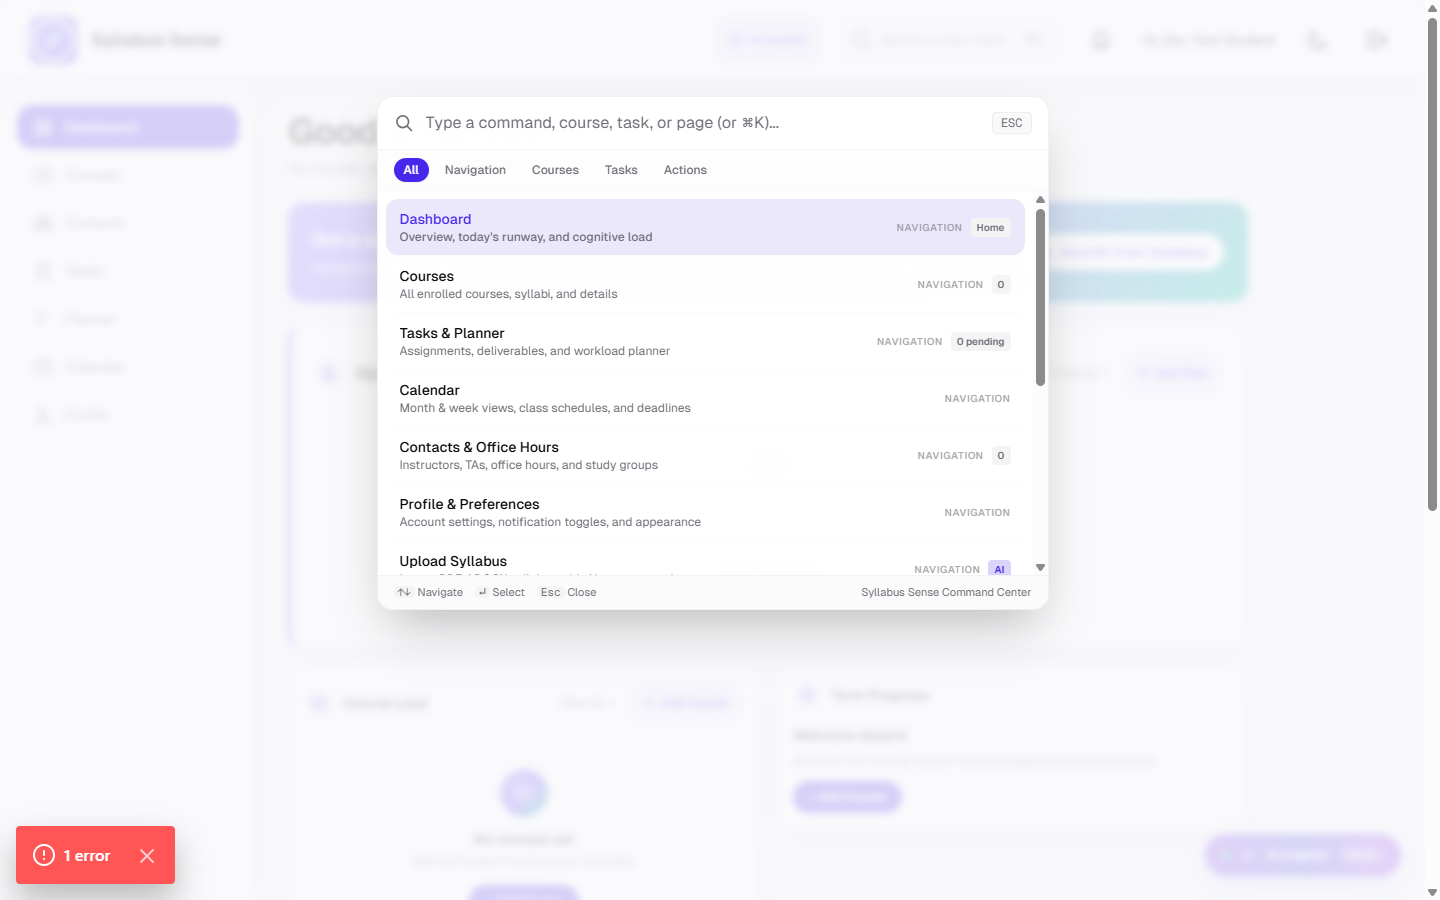
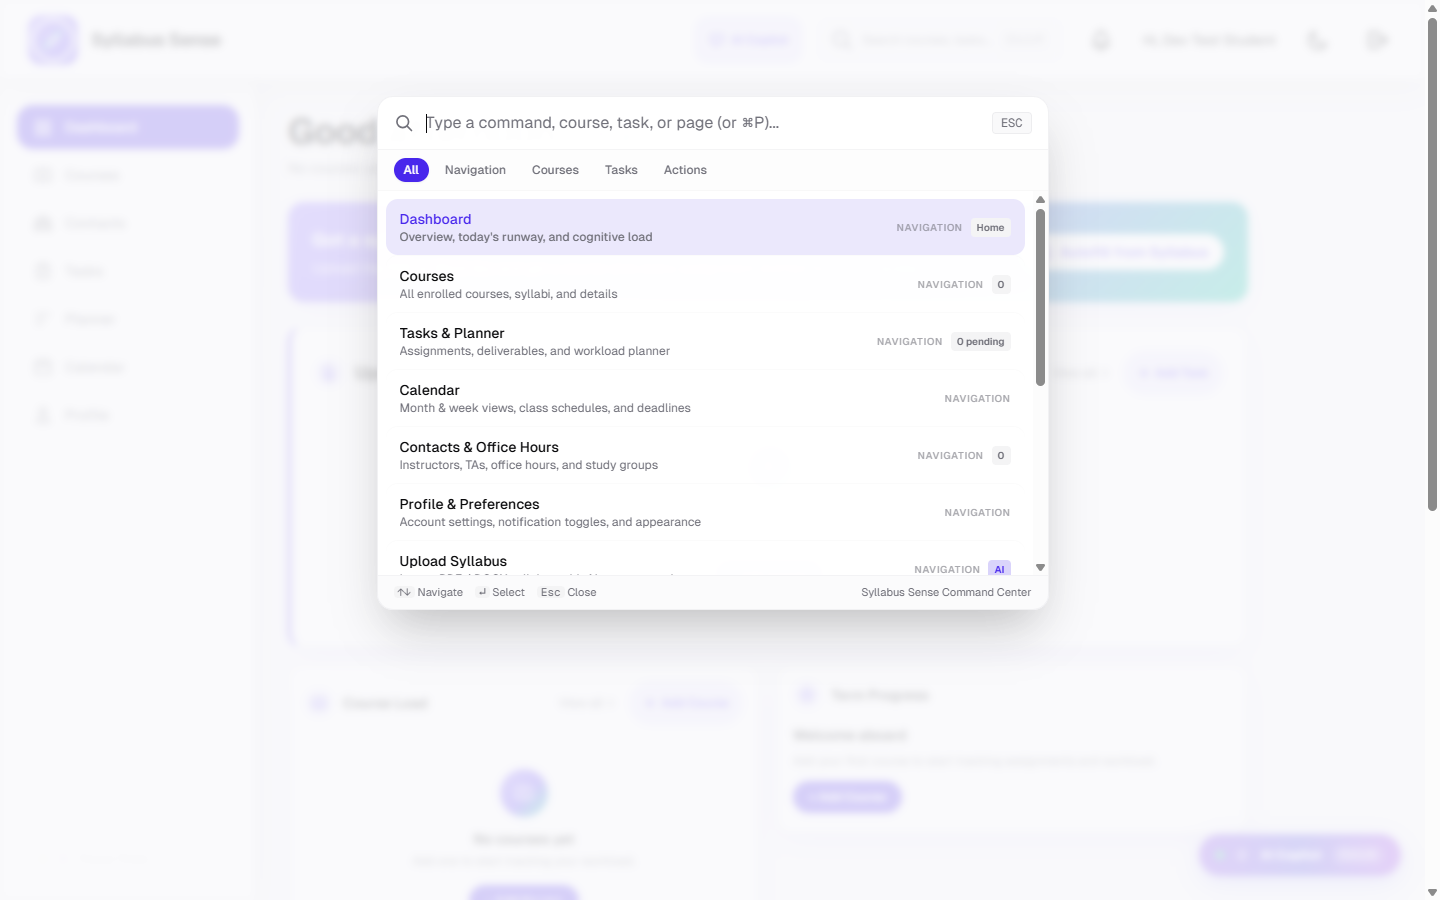
fix(ux): separate Cmd+K (AI Copilot) from Ctrl+P (Command Palette), fix manifest 500 error, add platform-aware shortcut badges, suppress dev error overlay in screenshots

Changed region(s): [[0.0, 0.9022, 0.125, 1.0]]

diff --git a/scripts/inspect_error_overlay.js b/scripts/inspect_error_overlay.js
@@ -1,0 +1,129 @@
+// Quick script: navigate to dashboard, then dump the error toast HTML to identify it
+const net = require('net');
+const path = require('path');
+
+async function getWsUrl() {
+  const res = await fetch('http://localhost:9222/json');
+  const targets = await res.json();
+  const page = targets.find((t) => t.url && t.url.includes('localhost:3000')) || targets[0];
+  if (!page) throw new Error('No Chrome page found');
+  console.log('Found page:', page.url);
+  return page.webSocketDebuggerUrl;
+}
+
+function connectWS(wsUrl) {
+  return new Promise((resolve, reject) => {
+    const u = new URL(wsUrl);
+    const socket = net.connect(parseInt(u.port), u.hostname);
+    const key = Buffer.from(Math.random().toString()).toString('base64');
+    const reqHeaders = [
+      `GET ${u.pathname} HTTP/1.1`,
+      `Host: ${u.host}`,
+      `Upgrade: websocket`,
+      `Connection: Upgrade`,
+      `Sec-WebSocket-Key: ${key}`,
+      `Sec-WebSocket-Version: 13`,
+      '',
+      '',
+    ].join('\r\n');
+    let resolved = false;
+    let msgId = 1;
+    const pending = new Map();
+    const listeners = [];
+    let buf = Buffer.alloc(0);
+    let handshakeDone = false;
+
+    socket.on('data', (chunk) => {
+      buf = Buffer.concat([buf, chunk]);
+      if (!handshakeDone) {
+        const end = buf.indexOf('\r\n\r\n');
+        if (end !== -1) {
+          handshakeDone = true;
+          buf = buf.slice(end + 4);
+          if (!resolved) { resolved = true; resolve({ send, on: addListener }); }
+        }
+        return;
+      }
+      while (buf.length > 2) {
+        const b0 = buf[0], b1 = buf[1];
+        const masked = (b1 & 0x80) !== 0;
+        let payloadLen = b1 & 0x7f;
+        let offset = 2;
+        if (payloadLen === 126) { if (buf.length < 4) return; payloadLen = buf.readUInt16BE(2); offset = 4; }
+        else if (payloadLen === 127) { if (buf.length < 10) return; payloadLen = Number(buf.readBigUInt64BE(2)); offset = 10; }
+        const maskLen = masked ? 4 : 0;
+        if (buf.length < offset + maskLen + payloadLen) return;
+        const mask = masked ? buf.slice(offset, offset + 4) : null;
+        offset += maskLen;
+        let payload = buf.slice(offset, offset + payloadLen);
+        if (masked) { for (let i = 0; i < payload.length; i++) payload[i] ^= mask[i % 4]; }
+        buf = buf.slice(offset + payloadLen);
+        const opcode = b0 & 0xf;
+        if (opcode === 1) {
+          const msg = JSON.parse(payload.toString());
+          if (msg.id && pending.has(msg.id)) { const cb = pending.get(msg.id); pending.delete(msg.id); cb(msg); }
+          listeners.forEach(fn => fn(msg));
+        }
+      }
+    });
+
+    socket.on('error', reject);
+
+    function send(method, params = {}) {
+      return new Promise((res) => {
+        const id = msgId++;
+        pending.set(id, res);
+        const data = JSON.stringify({ id, method, params });
+        const frame = encodeFrame(data);
+        socket.write(frame);
+      });
+    }
+
+    function encodeFrame(data) {
+      const payload = Buffer.from(data, 'utf8');
+      const len = payload.length;
+      const header = len < 126 ? Buffer.from([0x81, len]) :
+        len < 65536 ? Buffer.from([0x81, 126, len >> 8, len & 0xff]) :
+        (() => { const b = Buffer.alloc(10); b[0]=0x81; b[1]=127; b.writeBigUInt64BE(BigInt(len),2); return b; })();
+      return Buffer.concat([header, payload]);
+    }
+
+    function addListener(fn) { listeners.push(fn); }
+  });
+}
+
+async function main() {
+  const wsUrl = await getWsUrl();
+  const { send } = await connectWS(wsUrl);
+
+  await send('Runtime.enable', {});
+  await send('Page.navigate', { url: 'http://localhost:3000/dashboard?mock=true' });
+  await new Promise(r => setTimeout(r, 3000));
+
+  // Inspect what the error toast looks like in the DOM
+  const result = await send('Runtime.evaluate', {
+    expression: `JSON.stringify({
+      fixedEls: Array.from(document.querySelectorAll('[class*="fixed"]')).map(el => ({
+        tag: el.tagName,
+        cls: el.className.slice(0,80),
+        text: el.innerText.slice(0,100)
+      })),
+      nextjsPortal: document.querySelector('nextjs-portal') ? 'FOUND' : 'not found',
+      shadowHTML: (() => {
+        const p = document.querySelector('nextjs-portal');
+        return p && p.shadowRoot ? p.shadowRoot.innerHTML.slice(0, 800) : 'none';
+      })()
+    })`,
+    returnByValue: true
+  });
+
+  const info = JSON.parse(result.result.result.value);
+  console.log('\n=== Fixed elements ===');
+  info.fixedEls.forEach(el => console.log(el));
+  console.log('\n=== nextjs-portal ===', info.nextjsPortal);
+  console.log('\n=== Shadow HTML ===\n', info.shadowHTML);
+
+  process.exit(0);
+}
+
+main().catch(e => { console.error(e); process.exit(1); });

diff --git a/scripts/verify_and_capture_live.js b/scripts/verify_and_capture_live.js
@@ -128,14 +128,32 @@ async function evalScript(socket, expression) {
 async function runCapturePipeline(wsUrl) {
   const socket = await connectWS(wsUrl);
 
+  // Hide the Next.js dev error overlay on every page load (shadow DOM inside <nextjs-portal>)
+  await sendCommand(socket, 'Page.addScriptToEvaluateOnNewDocument', {
+    source: `
+      (function() {
+        const style = document.createElement('style');
+        style.textContent = 'nextjs-portal { display: none !important; }';
+        document.documentElement.appendChild(style);
+        // Also observe for late-injected portals
+        const obs = new MutationObserver(() => {
+          document.querySelectorAll('nextjs-portal').forEach(el => {
+            el.style.setProperty('display', 'none', 'important');
+          });
+        });
+        obs.observe(document.documentElement, { childList: true, subtree: true });
+      })();
+    `
+  });
+
   const itemsToCapture = [
     {
       name: 'item-34-command-palette',
       route: 'http://localhost:3000/dashboard?mock=true&cmd=true',
       trigger: `
-        const btn = document.querySelector('button[aria-label*="Search"]') || Array.from(document.querySelectorAll('button')).find(b => b.innerText.includes('Search') || b.innerText.includes('Cmd+K'));
+        const btn = document.querySelector('button[aria-label*="Search"]') || Array.from(document.querySelectorAll('button')).find(b => b.innerText.includes('Search') || b.innerText.includes('Ctrl+P'));
         if (btn) btn.click();
-        else window.dispatchEvent(new KeyboardEvent('keydown', { key: 'k', metaKey: true, ctrlKey: true }));
+        else window.dispatchEvent(new KeyboardEvent('keydown', { key: 'p', metaKey: true, ctrlKey: true, bubbles: true }));
       `,
       verifier: `!!document.querySelector('[role="dialog"]') || document.body.innerText.includes("Command Palette") || document.body.innerText.includes("Search tasks")`
     },
@@ -224,7 +242,10 @@ async function runCapturePipeline(wsUrl) {
   for (const item of itemsToCapture) {
     console.log(`\n📸 Capturing ${item.name} at ${item.route}`);
     await sendCommand(socket, 'Page.navigate', { url: item.route });
-    await new Promise((r) => setTimeout(r, 1500));
+    await new Promise((r) => setTimeout(r, 1200));
+    // Hard reload bypasses cache so stale dev-error overlays are gone
+    await sendCommand(socket, 'Page.reload', { ignoreCache: true });
+    await new Promise((r) => setTimeout(r, 1800));
 
     // Set mock_auth in localStorage
     await evalScript(socket, `localStorage.setItem('mock_auth', 'true')`);
@@ -234,6 +255,27 @@ async function runCapturePipeline(wsUrl) {
       await evalScript(socket, item.trigger);
       await new Promise((r) => setTimeout(r, 1200));
     }
+
+    // Dismiss any Next.js dev error overlay or red toast before capturing
+    await evalScript(socket, `
+      // Close Next.js built-in error overlay (dev mode)
+      try {
+        const overlay = document.querySelector('nextjs-portal');
+        if (overlay) overlay.remove();
+      } catch(e) {}
+      // Close any visible error toast buttons (e.g. "1 error ×")
+      document.querySelectorAll('button').forEach(btn => {
+        if (btn.innerText.includes('error') || btn.getAttribute('aria-label') === 'Close') {
+          const parent = btn.closest('[class*="fixed"], [class*="toast"], [class*="error"]');
+          if (parent) parent.remove();
+          else if (btn.innerText.trim() === '×' || btn.innerText.trim() === 'X') btn.click();
+        }
+      });
+      // Also hide shadow-dom error overlay if present
+      const devOverlay = document.getElementById('__next-build-watcher');
+      if (devOverlay) devOverlay.style.display = 'none';
+    `);
+    await new Promise((r) => setTimeout(r, 300));
 
     const verified = item.verifier ? await evalScript(socket, item.verifier) : true;
     console.log(`  Modal/Feature Verified Active (${item.name}):`, verified);

diff --git a/src/components/layout/Navbar.tsx b/src/components/layout/Navbar.tsx
@@ -10,6 +10,7 @@ import type { ScheduleItem } from '@/types/schedule';
 import Logo from './Logo';
 import { TermSwitcher } from './TermSwitcher';
 import { CommandPalette } from '@/components/common/CommandPalette';
+import { usePlatformKey } from '@/hooks/usePlatformKey';
 
 /** NV-3: how far ahead of "now" a pending item counts as "due soon" in the
  * notification bell's dropdown (as opposed to "overdue"). Purely a display
@@ -194,6 +195,7 @@ export default function Navbar({ onOpenChat }: { onOpenChat?: () => void }) {
   const [mounted, setMounted] = useState(false);
   const [openPanel, setOpenPanel] = useState<'search' | 'bell' | null>(null);
   const [isCommandPaletteOpen, setIsCommandPaletteOpen] = useState(false);
+  const modKey = usePlatformKey();
 
   const handleSignOut = async () => {
     const success = await signOut();
@@ -239,7 +241,7 @@ export default function Navbar({ onOpenChat }: { onOpenChat?: () => void }) {
           <>
             <button
               onClick={() => setIsCommandPaletteOpen(true)}
-              aria-label="Open command palette (Cmd+K)"
+              aria-label={`Open command palette (${modKey}+P)`}
               className="hidden md:inline-flex items-center gap-2 rounded-xl border border-border/50 bg-background/60 px-3 py-2 text-xs text-muted-foreground hover:border-primary/50 hover:text-foreground transition-all focus:outline-none focus:ring-2 focus:ring-primary min-h-[44px]"
             >
               <SearchIcon />
@@ -247,12 +249,12 @@ export default function Navbar({ onOpenChat }: { onOpenChat?: () => void }) {
                 Search courses, tasks...
               </span>
               <kbd className="rounded border border-border/70 bg-muted/60 px-1.5 py-0.5 text-[10px] font-mono">
-                ⌘K
+                {modKey}+P
               </kbd>
             </button>
             <button
               onClick={() => setIsCommandPaletteOpen(true)}
-              aria-label="Search courses and tasks (Cmd+K)"
+              aria-label={`Search courses and tasks (${modKey}+P)`}
               className="md:hidden inline-flex min-h-[44px] min-w-[44px] items-center justify-center rounded-md p-2 text-foreground hover:bg-accent focus:outline-none focus:ring-2 focus:ring-primary focus:ring-offset-2 focus:ring-offset-background"
             >
               <SearchIcon />

diff --git a/src/components/layout/LayoutWrapper.tsx b/src/components/layout/LayoutWrapper.tsx
@@ -11,15 +11,29 @@ import FirestoreSync from './FirestoreSync';
 import OfflineBanner from './OfflineBanner';
 import { SyllabusChatDrawer } from '@/components/syllabus/SyllabusChatDrawer';
 import { PomodoroTimer } from '@/components/focus/PomodoroTimer';
+import { usePlatformKey } from '@/hooks/usePlatformKey';
 
 export default function LayoutWrapper({ children }: { children: React.ReactNode }) {
   const [isChatOpen, setIsChatOpen] = useState(false);
+  const modKey = usePlatformKey();
 
   useEffect(() => {
     // URL flag to open chat drawer directly for screenshot capture / deep linking
     if (typeof window !== 'undefined' && window.location.search.includes('chat=true')) {
       setIsChatOpen(true);
     }
+  }, []);
+
+  // Global Cmd+K / Ctrl+K → open AI Copilot chat
+  useEffect(() => {
+    const handleKeyDown = (e: KeyboardEvent) => {
+      if ((e.metaKey || e.ctrlKey) && e.key.toLowerCase() === 'k') {
+        e.preventDefault();
+        setIsChatOpen((prev) => !prev);
+      }
+    };
+    window.addEventListener('keydown', handleKeyDown);
+    return () => window.removeEventListener('keydown', handleKeyDown);
   }, []);
 
   return (
@@ -52,7 +66,7 @@ export default function LayoutWrapper({ children }: { children: React.ReactNode 
                 <path strokeLinecap="round" strokeLinejoin="round" d="M13 10V3L4 14h7v7l9-11h-7z" />
               </svg>
               <span className="font-bold tracking-wide">AI Copilot</span>
-              <span className="hidden rounded-full bg-white/20 px-2 py-0.5 text-[10px] font-mono text-white/90 sm:inline-block">Cmd+K</span>
+              <span className="hidden rounded-full bg-white/20 px-2 py-0.5 text-[10px] font-mono text-white/90 sm:inline-block">{modKey}+K</span>
             </button>
 
             <SyllabusChatDrawer isOpen={isChatOpen} onClose={() => setIsChatOpen(false)} />

diff --git a/src/components/common/CommandPalette.tsx b/src/components/common/CommandPalette.tsx
@@ -65,10 +65,10 @@ export function CommandPalette({
     setSelectedIndex(0);
   }, [isControlled, controlledOnClose]);
 
-  // Global hotkey: Cmd+K / Ctrl+K
+  // Global hotkey: Cmd+P / Ctrl+P
   useEffect(() => {
     const handleKeyDown = (e: KeyboardEvent) => {
-      if ((e.metaKey || e.ctrlKey) && e.key.toLowerCase() === 'k') {
+      if ((e.metaKey || e.ctrlKey) && e.key.toLowerCase() === 'p') {
         e.preventDefault();
         if (isOpen) {
           closePalette();
@@ -406,7 +406,7 @@ export function CommandPalette({
             aria-autocomplete="list"
             value={query}
             onChange={(e) => setQuery(e.target.value)}
-            placeholder="Type a command, course, task, or page (or ⌘K)..."
+            placeholder="Type a command, course, task, or page (or ⌘P)..."
             className="w-full bg-transparent text-base text-foreground placeholder:text-muted-foreground focus:outline-none"
           />
           {query ? (

diff --git a/src/hooks/usePlatformKey.ts b/src/hooks/usePlatformKey.ts
@@ -1,0 +1,24 @@
+'use client';
+
+import { useEffect, useState } from 'react';
+
+/**
+ * Returns the platform-appropriate modifier key label.
+ * - Mac  → "⌘"  (Command)
+ * - Win / Linux → "Ctrl"
+ *
+ * Defaults to "Ctrl" on the server (SSR) to avoid hydration mismatches;
+ * updates after first client paint.
+ */
+export function usePlatformKey(): string {
+  const [isMac, setIsMac] = useState(false);
+
+  useEffect(() => {
+    setIsMac(
+      typeof navigator !== 'undefined' &&
+        /Mac|iPhone|iPod|iPad/.test(navigator.platform || navigator.userAgent),
+    );
+  }, []);
+
+  return isMac ? '⌘' : 'Ctrl';
+}
